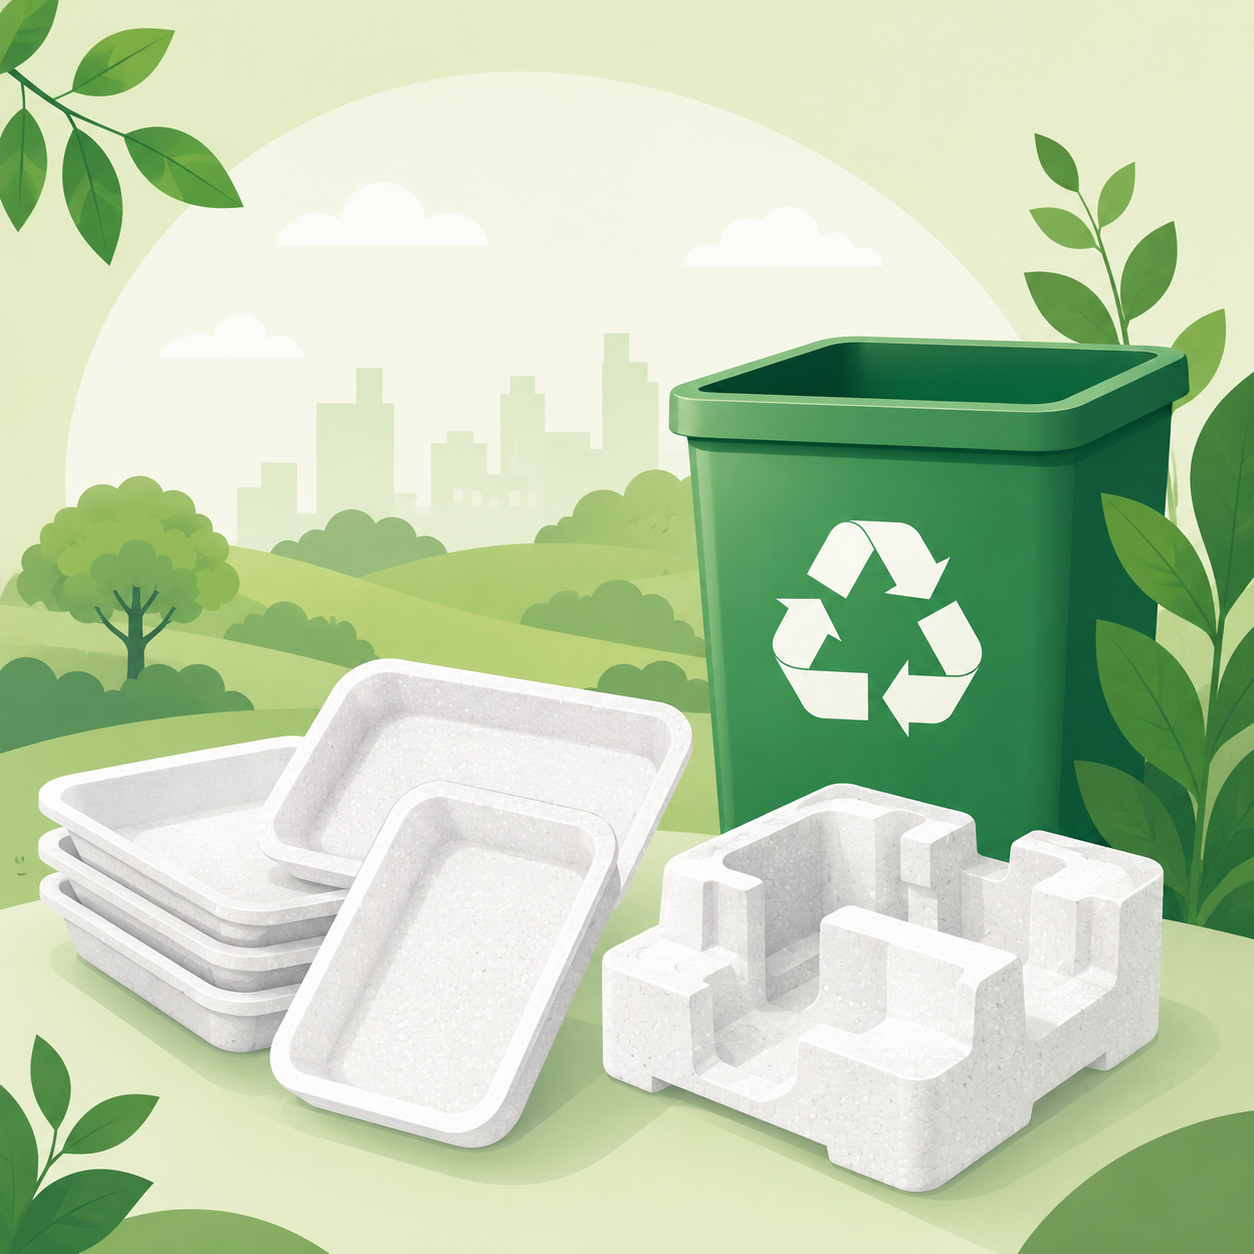
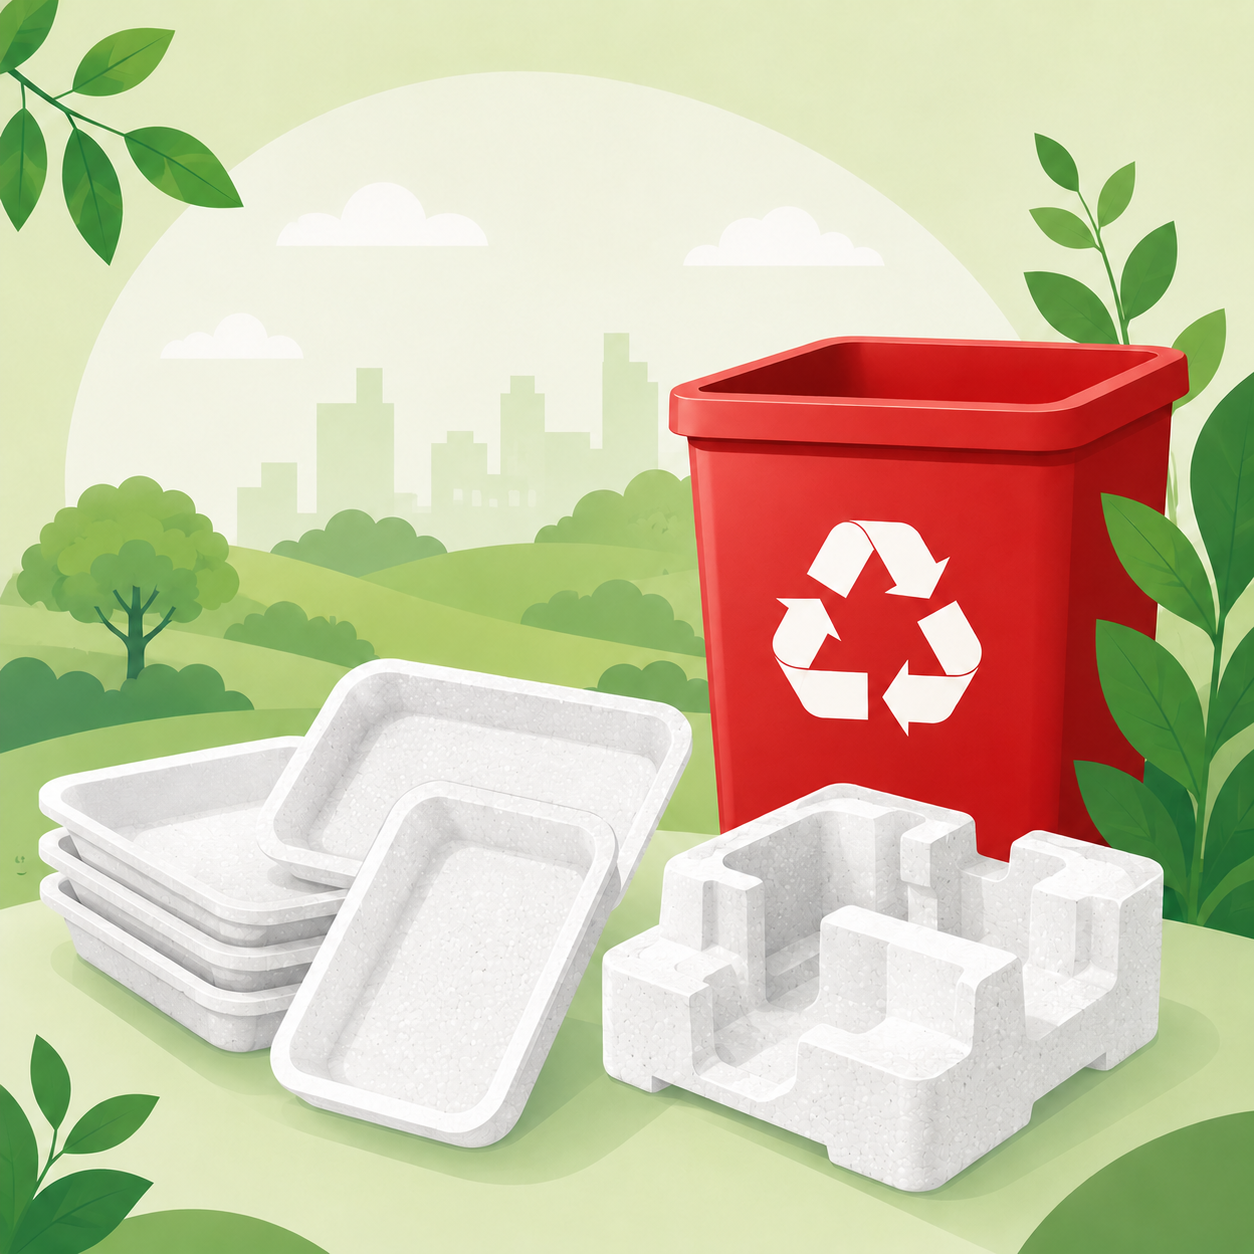
Organização dos cards educativos com imagens dos residuos

Changed region(s): [[0.5287, 0.2488, 0.9641, 0.6842]]

diff --git a/frontend/css/style.css b/frontend/css/style.css
@@ -1564,28 +1564,83 @@ body {
 .education-list {
     display: flex;
     flex-direction: column;
-    gap: 16px;
+    gap: 18px;
 }
 
 .education-item {
-    background-color: #f8faf8;
+    display: grid;
+    grid-template-columns: 170px 1fr;
+    gap: 18px;
+    align-items: center;
+    background-color: #ffffff;
     border: 1px solid #e5e7eb;
-    border-radius: 12px;
-    padding: 18px;
+    border-radius: 16px;
+    padding: 16px;
+    box-shadow: 0 4px 14px rgba(0, 0, 0, 0.04);
 }
 
-.education-item h4 {
-    color: #16823a;
-    margin-bottom: 10px;
+.education-image {
+    width: 170px;
+    height: 130px;
+    object-fit: cover;
+    object-position: center;
+    border-radius: 14px;
+    background-color: #f0fdf4;
+    border: 1px solid #e5e7eb;
+}
+
+.education-content {
+    display: flex;
+    flex-direction: column;
+    gap: 8px;
+}
+
+.education-title {
     display: flex;
     align-items: center;
     gap: 8px;
 }
 
-.education-item p {
-    color: #4b5563;
-    margin-bottom: 8px;
+.education-title i {
+    color: #16823a;
+    font-size: 20px;
+}
+
+.education-title h4 {
+    color: #064e3b;
+    font-size: 20px;
+    margin: 0;
+}
+
+.education-category {
+    width: fit-content;
+    background-color: #ecfdf5;
+    color: #16823a;
+    font-size: 13px;
+    font-weight: 700;
+    padding: 5px 10px;
+    border-radius: 999px;
+}
+
+.education-content p {
+    color: #475569;
     line-height: 1.5;
+    margin: 0;
+}
+
+.education-tip {
+    background-color: #f8fafc;
+    border-left: 4px solid #16823a;
+    border-radius: 10px;
+    padding: 10px 12px;
+}
+
+.education-tip strong {
+    color: #064e3b;
+}
+
+.education-tip p {
+    margin-top: 4px;
 }
 .card-voce-sabia {
     display: flex;
@@ -1618,17 +1673,18 @@ body {
     color: #22c55e;
     font-size: 26px;
 }
-
 .imagem-voce-sabia {
     width: 100%;
     max-width: 100%;
-    max-height: 700px;
+    max-height: 720px;
     object-fit: contain;
+    object-position: center;
     display: block;
-    margin: 0 auto 18px;
+    margin: 0 auto 14px;
     border-radius: 14px;
+    border: 1px solid #e5e7eb;
     background-color: #f0fdf4;
-    padding: 10px;
+    padding: 8px;
 }
 
 .card-voce-sabia p {

diff --git a/frontend/js/educacao.js b/frontend/js/educacao.js
@@ -1,5 +1,33 @@
 const listaResiduos = document.getElementById("lista-residuos");
 
+const imagensResiduos = {
+  "Plástico": "img/plastico.png",
+  "Papel": "img/papel.png",
+  "Papelão": "img/papelao.png",
+  "Vidro": "img/vidro.png",
+  "Metal": "img/metal.png",
+  "Alumínio": "img/aluminio.png",
+  "Embalagem longa vida": "img/emb-long-vida.png",
+  "Eletrônicos": "img/eletronico.png",
+  "Óleo de cozinha usado": "img/oleo.png",
+  "Pilhas e baterias": "img/pilhas.png",
+  "Isopor": "img/isopor.png"
+};
+
+const iconesResiduos = {
+  "Plástico": "bi-cup-straw",
+  "Papel": "bi-file-earmark-text",
+  "Papelão": "bi-box-seam",
+  "Vidro": "bi-cup",
+  "Metal": "bi-nut",
+  "Alumínio": "bi-cup-hot",
+  "Embalagem longa vida": "bi-box",
+  "Eletrônicos": "bi-phone",
+  "Óleo de cozinha usado": "bi-droplet-half",
+  "Pilhas e baterias": "bi-battery-charging",
+  "Isopor": "bi-box2"
+};
+
 async function carregarResiduos() {
   try {
     const resposta = await fetch("http://localhost:1337/api/residuos");
@@ -23,23 +51,41 @@ async function carregarResiduos() {
     }
 
     residuos.forEach(function (residuo) {
-      const item = document.createElement("div");
+      const nome = residuo.nome;
+      const imagem = imagensResiduos[nome] || "img/reciclagem-banner.png";
+      const icone = iconesResiduos[nome] || "bi-recycle";
+
+      const item = document.createElement("article");
       item.classList.add("education-item");
 
       item.innerHTML = `
-        <h4>
-          <i class="bi bi-recycle"></i>
-          ${residuo.nome}
-        </h4>
+        <img 
+          src="${imagem}" 
+          alt="Ilustração sobre ${nome}" 
+          class="education-image"
+        >
 
-        <p><strong>Categoria:</strong> ${residuo.categoria}</p>
+        <div class="education-content">
+          <div class="education-title">
+            <i class="bi ${icone}"></i>
+            <h4>${nome}</h4>
+          </div>
 
-        <p>${residuo.descricao || "Sem descrição cadastrada."}</p>
+          <span class="education-category">
+            Categoria: ${residuo.categoria}
+          </span>
 
-        <p>
-          <strong>Orientação de descarte:</strong>
-          ${residuo.orientacao_descarte || "Orientação ainda não cadastrada."}
-        </p>
+          <p>
+            ${residuo.descricao || "Sem descrição cadastrada."}
+          </p>
+
+          <div class="education-tip">
+            <strong>Orientação de descarte:</strong>
+            <p>
+              ${residuo.orientacao_descarte || "Orientação ainda não cadastrada."}
+            </p>
+          </div>
+        </div>
       `;
 
       listaResiduos.appendChild(item);